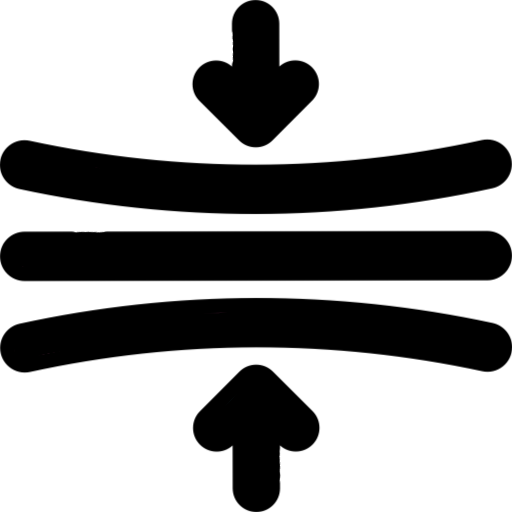
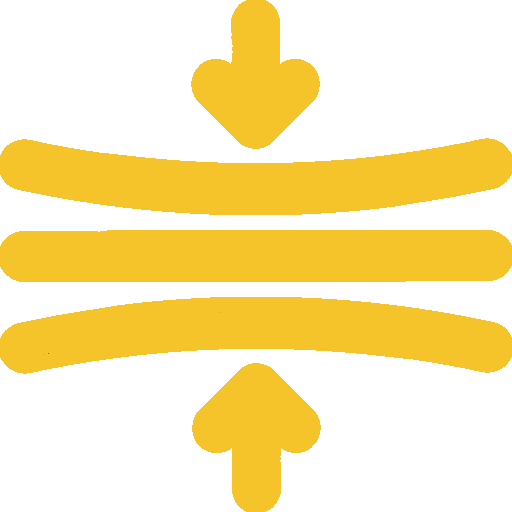
Grant Types colors

diff --git a/src/app/pages/dashboard/grants-for/grants-for.component.ts b/src/app/pages/dashboard/grants-for/grants-for.component.ts
@@ -13,42 +13,50 @@ export class GrantsForComponent {
         {
             type: 'Travel grant',
             image: '../../../assets/images/travel_grant.png',
-            description: ''
+            description: '',
+            color: '#034f75'
         },
         {
             type: 'Capacity Development',
             image: '../../../assets/images/capacity_development.png',
-            description: ''
+            description: '',
+            color: '#34a5c1'
         },
         {
             type: 'Urgent Action',
             image: '../../../assets/images/urgent_action.png',
-            description: ''
+            description: '',
+            color: '#80c5e4'
         },
         {
             type: 'Education Grant',
             image: '../../../assets/images/education_grant.png',
-            description: ''
+            description: '',
+            color: '#f9b001'
         },
         {
             type: 'Indigenous Knowledge Building',
             image: '../../../assets/images/indigenous_knowledge_building.png',
-            description: ''
+            description: '',
+            color: '#f27e01'
         },
         {
             type: 'Resiliency Building',
             image: '../../../assets/images/resiliency_building.png',
-            description: ''
+            description: '',
+            color: '#f5c42b'
         },
         {
             type: 'Social Justice Grant',
             image: '../../../assets/images/social_justice_grant.png',
-            description: ''
+            description: '',
+            color: '#049bd8'
         },
         {
             type: 'Institutional Development',
             image: '../../../assets/images/institutional_development.png',
-            description: ''
+            description: '',
+            color: '#239fbc'
         }
     ];
 }

diff --git a/src/app/pages/dashboard/grants-for/grants-for.component.html b/src/app/pages/dashboard/grants-for/grants-for.component.html
@@ -7,13 +7,16 @@
         </div>
         <div class="card-body py-2">
             <div class="row p-2">
+
                 <div class="col-12 col-md-4 position-relative" *ngFor="let grant of grants; let i = index">
                     <div class="img-container" style="--border-color: #1a73e8;">
-                        <img height="100%" src="{{grant.image}}" class="rounded-circle" data-toggle="popover"
-                            title="Popover title"
-                            data-content="And here's some amazing content. It's very engaging. Right?" />
+                        <img height="100%" src="{{grant.image}}" class="rounded-circle" placement="end"
+                            popoverClass="my-custom-class" ngbPopover="{{grant.description}}"
+                            triggers="mouseenter:mouseleave" popoverTitle="{{grant.type}}"
+                            [style]="'border-color: ' + grant.color + ' !important'" />
                     </div>
-                    <div class="card bg-info" style="margin-left: 30px; height: 50px;">
+                    <div class="card " style="margin-left: 30px; height: 50px;"
+                        [style]="'background-color:' + grant.color">
                         <div class="card-body p-2 m-0" style="padding-left: 20px !important;">
                             <p class="text-white p-0 p-1 m-0 mx-1 font-weight-bold; padding-left: 20px;">{{grant.type}}
                             </p>

diff --git a/src/app/pages/dashboard/grants-for/grants-for.module.ts b/src/app/pages/dashboard/grants-for/grants-for.module.ts
@@ -2,7 +2,7 @@ import { NgModule } from '@angular/core';
 import { CommonModule } from '@angular/common';
 import { GrantsForComponent } from './grants-for.component';
 import { BaseChartDirective } from 'ng2-charts';
-
+import { NgbPopoverModule } from '@ng-bootstrap/ng-bootstrap';
 
 @NgModule({
     declarations: [
@@ -10,6 +10,7 @@ import { BaseChartDirective } from 'ng2-charts';
     ],
     imports: [
         CommonModule,
+        NgbPopoverModule,
         BaseChartDirective
     ],
     exports: [GrantsForComponent]

diff --git a/src/app/pages/dashboard/grants-for/grants-for.component.scss b/src/app/pages/dashboard/grants-for/grants-for.component.scss
@@ -14,3 +14,17 @@
         padding: 10px;
     }
 }
+
+::ng-deep .popover-body {
+    width: 200px !important;
+    z-index: 9999999;
+}
+
+.my-custom-class {
+    background: aliceblue;
+    font-size: 125%;
+}
+
+.my-custom-class .arrow::after {
+    border-top-color: aliceblue;
+}
